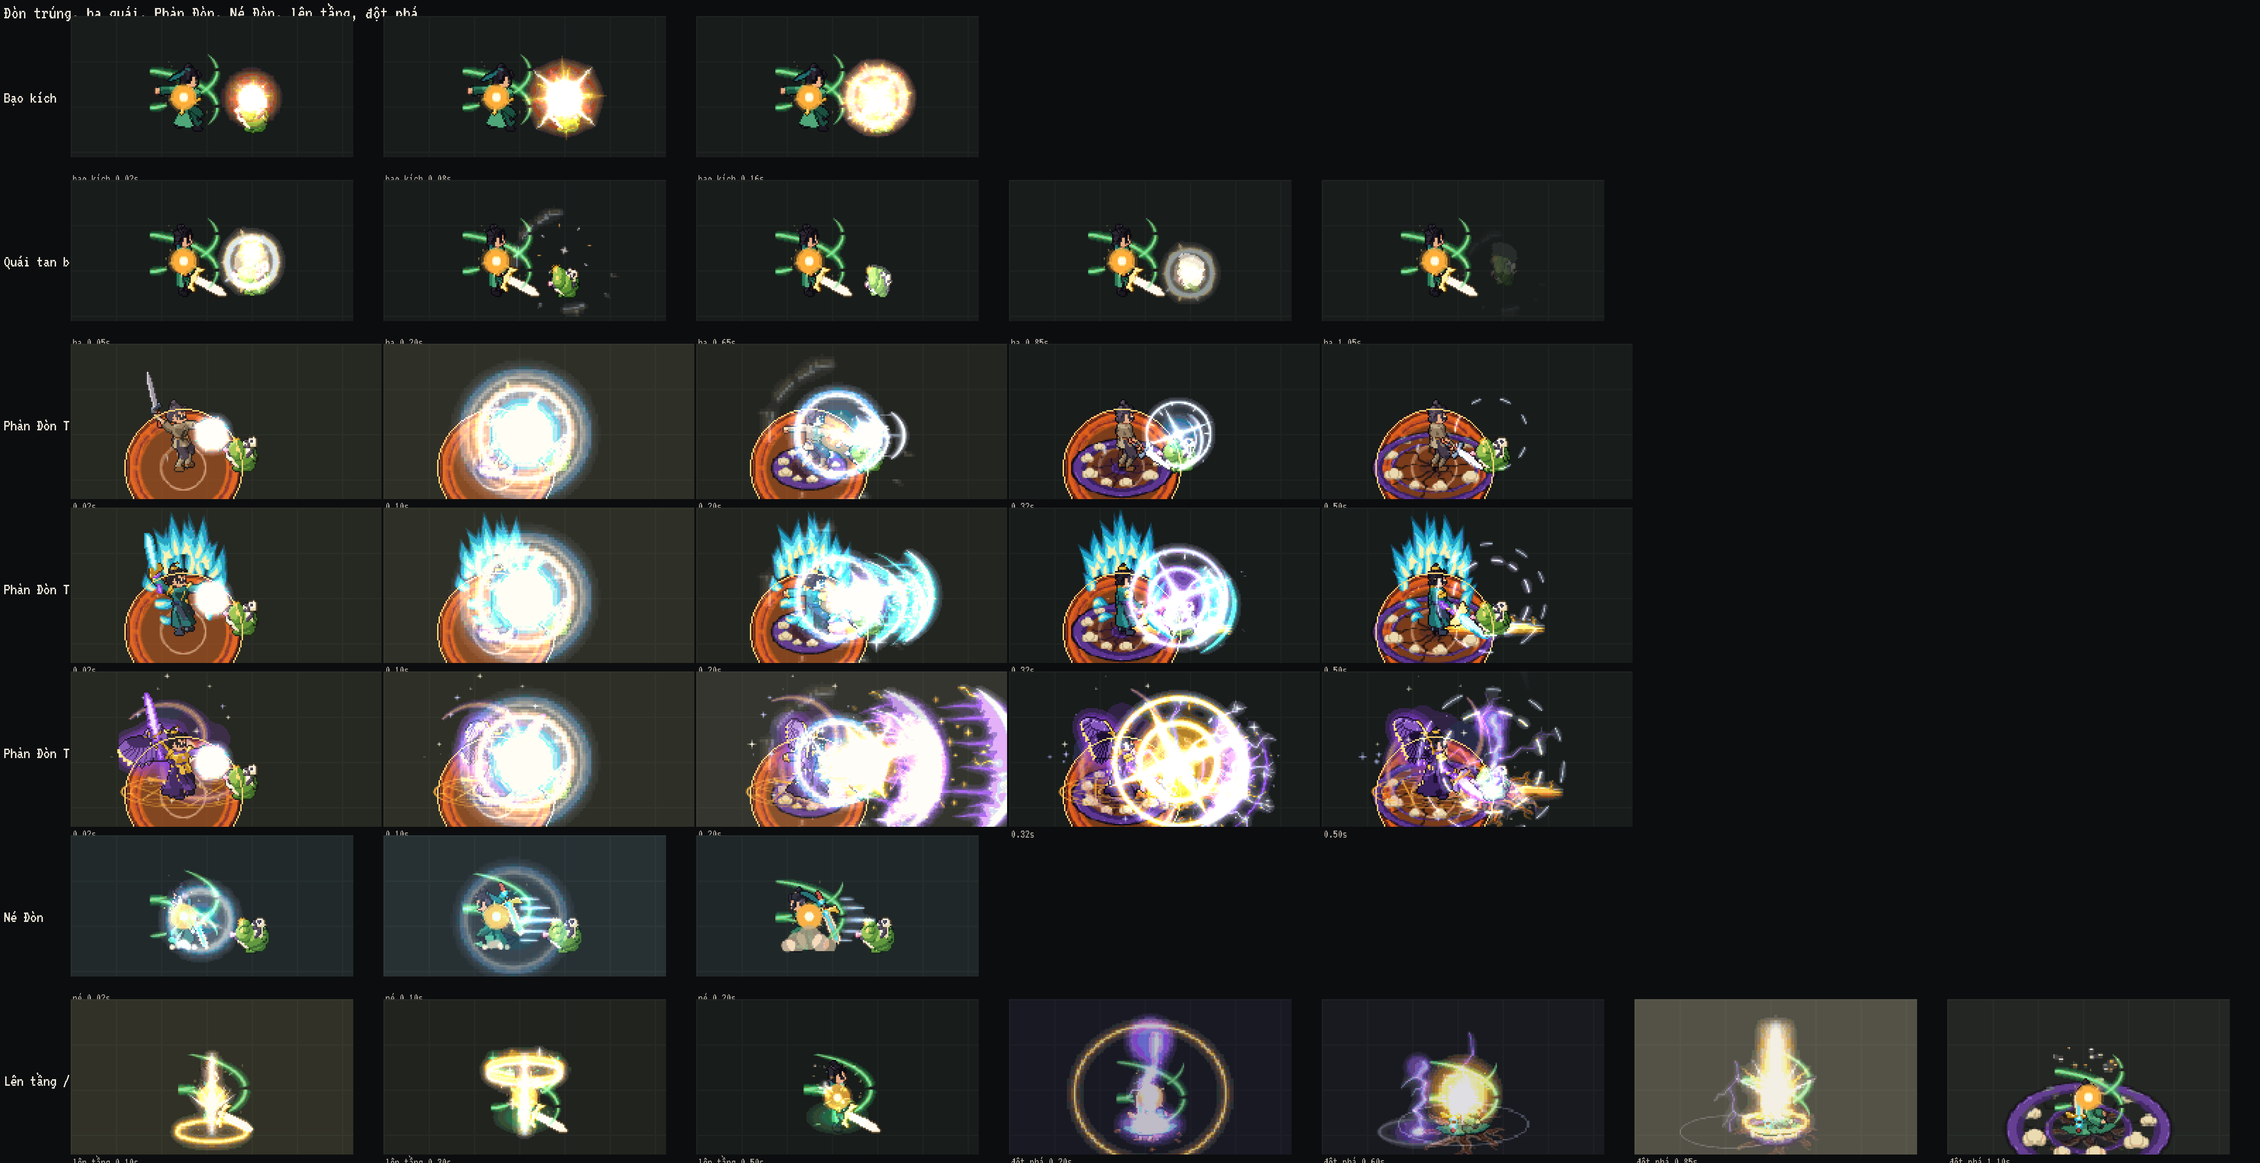
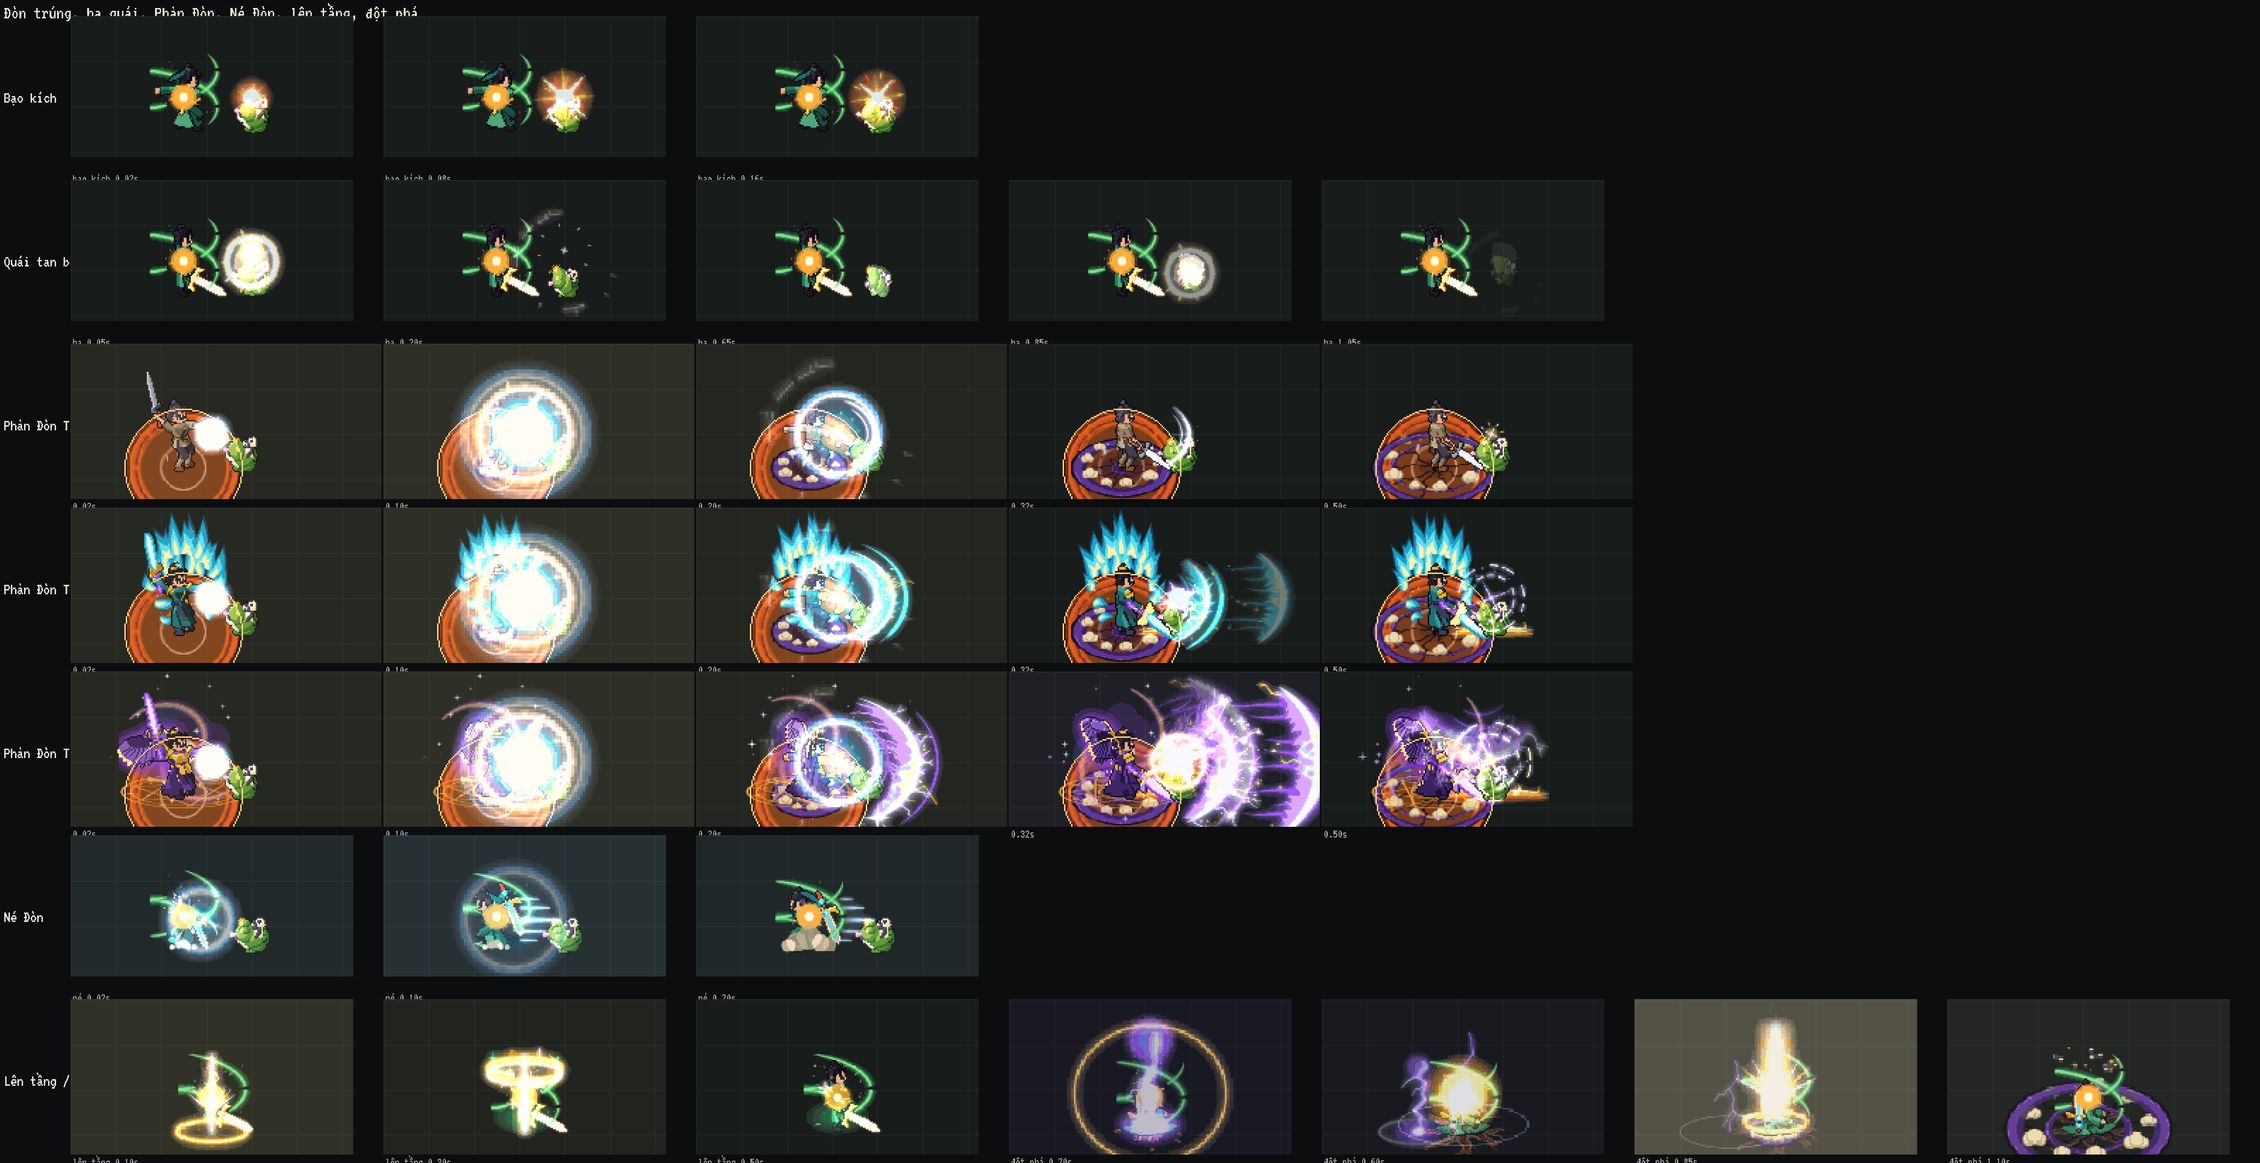
Toán tu tiên: tấm tối dưới kiếm khí trên cỏ, ảnh xem trước đồ rơi và kiếm khí trên cỏ, đo khung hình với đồ rơi

diff --git a/tools/shot_vfx.py b/tools/shot_vfx.py
@@ -9,6 +9,9 @@ writes into art/preview/ (3x nearest-neighbour, dark ground, labels):
     vfx_weapons.png    the five weapon families at the four tier groups, at the moment of the blow
     vfx_chieu.png      each chiêu thức at charge / release / travel / impact, and its miss
     vfx_hits.png       crit, kill and dissolve, Phản Đòn, Né Đòn, stage-up, breakthrough
+    vfx_roi_do.png     gear dropped by a monster: the hop out, lying in the five rarity colours on
+                       grass, the name when near, the pickup; the weapon spots, open and locked
+    vfx_kiem_khi_co.png  the kiếm khí sheet again on grass (bright ground washes additive light out)
 
 Every cell is the world at the game's 2x zoom, cropped to the action; a monster's wind-up ring
 is drawn under the player (with its bright rim over everything, as the game does) so you can
@@ -47,6 +50,7 @@ TIERS = [("pham_nhan", 1, "Phàm Nhân"), ("luyen_khi", 5, "Luyện Khí 5"), ("
          ("hoa_than", 1, "Hóa Thần"), ("luyen_hu", 1, "Luyện Hư"), ("hop_the", 1, "Hợp Thể"),
          ("dai_thua", 1, "Đại Thừa")]
 MONSTER = "dau_tu_oa"
+GRASS = os.environ.get("SHOT_GROUND") == "grass"
 
 
 def text(s: str, size: int = 8, color="#E9E4D8") -> pygame.Surface:
@@ -64,6 +68,9 @@ class Cell:
         self.vfx = Vfx()
         self.vfx.resolve = lambda key: self.src if key == "me" else None
         self.tele = None
+        self.loot = None          # a ground_loot.GroundLoot to draw, at loot_t
+        self.loot_t = 0.0
+        self.spots: list = []     # [draw(surf, view, ground)] weapon spots
 
     def run_to(self, t: float) -> None:
         while self.vfx.t + 1e-6 < t and self.vfx.wall < t + 0.5:
@@ -73,11 +80,21 @@ class Cell:
                 monster: bool = True, mon_clip: str = "idle", mon_t: float = 0.0, extra=None) -> pygame.Surface:
         surf = pygame.Surface((self.w, self.h))
         surf.fill(BG)
-        for x in range(0, self.w, 32):
-            pygame.draw.line(surf, GRID, (x, 0), (x, self.h))
-        for y in range(0, self.h, 32):
-            pygame.draw.line(surf, GRID, (0, y), (self.w, y))
+        ts = art2.tileset32() if GRASS else None
+        if ts is not None:                    # the real grass of the world, as bright as the game's
+            for ty in range(0, self.h, 32):
+                for tx in range(0, self.w, 32):
+                    surf.blit(ts.pick(0, tx // 32, ty // 32), (tx, ty))
+        else:
+            for x in range(0, self.w, 32):
+                pygame.draw.line(surf, GRID, (x, 0), (x, self.h))
+            for y in range(0, self.h, 32):
+                pygame.draw.line(surf, GRID, (0, y), (self.w, y))
         v = self.view
+        if self.loot is not None:
+            self.loot.draw_ground(surf, v, self.loot_t, self.loot_t)
+        for sp in self.spots:
+            sp(surf, v, True)
         if self.tele is not None:
             self.draw_tele(surf, False)
         self.vfx.draw(surf, v, "ground")
@@ -86,6 +103,9 @@ class Cell:
         sx, sy = v.to_screen(*self.src)
         for img, (ox, oy), flags in layers or ():
             bodies.append((self.src[1], img, (sx + ox, sy + oy), flags))
+        if self.loot is not None:
+            for d in self.loot.drawables(v, self.loot_t, *self.src):
+                bodies.append((d[0], d[1], d[2], 0))
         if monster:
             m = art2.monster(MONSTER)
             if m is not None:
@@ -94,6 +114,10 @@ class Cell:
                 bodies.append((self.dst[1], m.frame(n), (int(mx - m.pivot[0]), int(my - m.pivot[1])), 0))
         for _y, img, pos, flags in sorted(bodies, key=lambda b: b[0]):
             surf.blit(img, pos, special_flags=flags)
+        if self.loot is not None:
+            self.loot.draw_over(surf, v, self.loot_t, self.loot_t)
+        for sp in self.spots:
+            sp(surf, v, False)
         if extra is not None:
             extra(surf, v)
         if self.tele is not None:
@@ -288,6 +312,64 @@ def hit_rows() -> list:
     return rows
 
 
+def loot_rows() -> list:
+    """Gear dropped where a monster died: the hop, the five rarities lying on the ground, the name
+    tag when the player is near, the pickup; then the weapon spots of Thiên Địa Đồ."""
+    from client.engine import ground_loot as G
+    from client.engine.text import Fonts as _F  # noqa: F401
+    rows = []
+    items = [("pham", "kiem_1", "#7D7468"), ("linh", "dao_2", "#6A994E"), ("huyen", "thuong_3", "#4A7CC8"),
+             ("dia", "cung_4", "#8E5AC8"), ("thien", "truong_6", "#C99A3A")]
+    cells = []
+    for r, item, col in items:
+        cell = Cell(110, 100, src=(14.0, 44.0), dst=(30.0, 40.0))
+        g = G.GroundLoot()
+        g.add({"item": item, "name_vi": item, "rarity": r, "color": col, "x": 30.0, "y": 40.0}, 0.0, None)
+        g.update(2.0, 900.0, 900.0, None)
+        cell.loot, cell.loot_t = g, 2.0
+
+        def tag(surf, v, r=r, col=col, item=item):
+            sx, sy = v.to_screen(30.0, 40.0)
+            img = FONTS.render(item, 7, col, 1)
+            surf.blit(img, (int(sx - img.get_width() / 2), int(sy - 70)))
+        cells.append((r, cell.picture("kim_dan", "kiem_4", "idle", 0.0, monster=False, extra=tag)))
+    rows.append(("Năm phẩm trên cỏ", cells))
+    cells = []
+    for label, t, px in (("rơi ra", 0.35, 900.0), ("nằm", 1.2, 900.0), ("lại gần", 1.6, 44.0),
+                         ("nhặt", 1.6 + 0.12, 34.0), ("vào túi", 1.6 + 0.26, 34.0)):
+        cell = Cell(150, 100, src=(min(px, 120.0), 44.0), dst=(60.0, 40.0))
+        g = G.GroundLoot()
+        g.add({"item": "kiem_3", "name_vi": "Thanh Phong Kiếm", "rarity": "dia", "color": "#8E5AC8",
+               "x": 60.0, "y": 44.0}, 0.0, None)
+        if label != "rơi ra":
+            g.update(1.0, 900.0, 900.0, None)
+        if label in ("nhặt", "vào túi"):
+            g.update(1.6, 62.0, 44.0, None)
+        cell.loot, cell.loot_t = g, t
+        cells.append((label, cell.picture("kim_dan", "kiem_4", "idle", 0.0, monster=label == "rơi ra",
+                                          mon_clip="die", mon_t=0.5)))
+    rows.append(("Rơi, nằm, nhặt", cells))
+    from client.scenes import world as W
+    cells = []
+    for q, state in (("ha", "available"), ("trung", "available"), ("thuong", "available"), ("cuc", "available"),
+                     ("tuyet", "available"), ("cuc", "locked")):
+        cell = Cell(110, 100, src=(14.0, 44.0))
+        sp = W.WeaponSpot(f"kiem_2_{q}", "x", 2, 2, state, icon=None)
+        ws = W.WorldScene.__new__(W.WorldScene)
+        ws.weapon_spots, ws.t = [sp], 1.0
+        cell.spots = [ws.draw_spot_glow]
+        icon = art2.weapon_icon("kiem_2")
+
+        def ic(surf, v, sp=sp, icon=icon):
+            if icon is not None:
+                sx, sy = v.to_screen(sp.x, sp.y)
+                img = icon if sp.state == "available" else art2.alpha_copy(icon, 120)
+                surf.blit(img, (int(sx - img.get_width() / 2), int(sy - img.get_height() - 2)))
+        cells.append((f"{q} {state}", cell.picture("kim_dan", "kiem_4", "idle", 0.0, monster=False, extra=ic)))
+    rows.append(("Chỗ đặt binh khí", cells))
+    return rows
+
+
 def main() -> int:
     out = Path(sys.argv[1]) if len(sys.argv) > 1 else ROOT / "art" / "preview"
     out.mkdir(parents=True, exist_ok=True)
@@ -298,9 +380,13 @@ def main() -> int:
     for name, rows, title in (("vfx_kiem_khi", kiem_khi_rows, "Kiếm khí theo tu vi (T1-T10), * = đòn chạm"),
                               ("vfx_weapons", weapon_rows, "Các loại binh khí theo nhóm cảnh giới"),
                               ("vfx_chieu", chieu_rows, "Chiêu thức (Kết Đan): tụ lực, xuất chiêu, bay, trúng, dư âm, hụt"),
-                              ("vfx_hits", hit_rows, "Đòn trúng, hạ quái, Phản Đòn, Né Đòn, lên tầng, đột phá")):
+                              ("vfx_hits", hit_rows, "Đòn trúng, hạ quái, Phản Đòn, Né Đòn, lên tầng, đột phá"),
+                              ("vfx_roi_do", loot_rows, "Đồ rơi phát sáng theo phẩm (trên cỏ)"),
+                              ("vfx_kiem_khi_co", kiem_khi_rows, "Kiếm khí trên cỏ (T1-T10)")):
         if only and only != name:
             continue
+        global GRASS
+        GRASS = name in ("vfx_roi_do", "vfx_kiem_khi_co") or os.environ.get("SHOT_GROUND") == "grass"
         img = sheet(rows(), title)
         p = out / f"{name}.png"
         pygame.image.save(img, str(p))

diff --git a/client/engine/vfx.py b/client/engine/vfx.py
@@ -27,7 +27,8 @@ spawn options (all optional): delay (s), life (s; default the sheet's one-shot l
 (world px of hump) for travel, scale (or scale=(a, b) grown over the life), size=(w, h) screen
 px (stretch), angle (screen degrees the art's +x points to: 0 right, 90 down), fade_in /
 fade_out (s), peak (0..1 brightness), fps (speed factor), frames=(a, b) (loop that range), hold
-(one frame), flip (mirror left-right about the pivot: a swing facing left), start (skip the first frames of a one-shot: the ring of a burst without its disc), trail=(n, gap) (afterimages n x `gap` seconds behind), layer, tag, follow, heavy
+(one frame), shade (0..1: a dark plate under an additive sheet, so it keeps its colour on bright
+grass), flip (mirror left-right about the pivot: a swing facing left), start (skip the first frames of a one-shot: the ring of a burst without its disc), trail=(n, gap) (afterimages n x `gap` seconds behind), layer, tag, follow, heavy
 (dropped by "reduce effects" and first to go over the budget).
 
 Coordinates are world pixels; the view (engine/view.py) puts them on screen. Positions, damage,
@@ -115,6 +116,20 @@ def _premul(img: pygame.Surface) -> pygame.Surface:
     return s
 
 
+def _shadow(img: pygame.Surface, alpha: int) -> pygame.Surface:
+    """The drawn area of `img` in black at `alpha` (0..255), cached."""
+    a = max(0, min(255, alpha)) // 8 * 8
+    key = ("shadow", img, a)
+    s = _cache.get(key)
+    if s is None:
+        s = img.copy()
+        s.fill((0, 0, 0, a), special_flags=pygame.BLEND_RGBA_MULT)
+        _cache[key] = s
+        while len(_cache) > _cache_max:
+            _cache.popitem(last=False)
+    return s
+
+
 def _ease(k: float, kind: str) -> float:
     k = max(0.0, min(1.0, k))
     if kind == "out":
@@ -129,7 +144,7 @@ def _ease(k: float, kind: str) -> float:
 class Inst:
     __slots__ = ("fid", "img", "pivot", "flags", "x", "y", "lift", "to", "lift1", "ease", "arc", "t0", "life",
                  "scale", "size", "angle", "fade_in", "fade_out", "peak", "fps", "frames", "hold", "trail",
-                 "layer", "tag", "follow", "heavy", "ox", "oy", "start", "flip")
+                 "layer", "tag", "follow", "heavy", "ox", "oy", "start", "flip", "shade")
 
     def __init__(self):
         self.fid = None
@@ -147,6 +162,7 @@ class Inst:
         self.layer, self.tag, self.follow, self.heavy = "over", None, None, False
         self.ox = self.oy = 0.0           # offset from a followed thing
         self.flip = False                 # mirrored left-right about its pivot (a swing facing left)
+        self.shade = 0.0                  # a dark plate under an additive sheet (bright ground)
 
     # where it is `t` seconds into its life (world px; z = lift)
     def pos(self, t: float, resolve) -> tuple[float, float, float]:
@@ -226,6 +242,7 @@ class Vfx:
         it.hold = kw.get("hold")
         it.start = int(kw.get("start", 0))
         it.flip = bool(kw.get("flip", False))
+        it.shade = float(kw.get("shade", 0.0))
         it.trail = kw.get("trail") if not self.reduced else None
         it.layer = kw.get("layer", "over")
         it.tag = kw.get("tag")
@@ -396,6 +413,8 @@ class Vfx:
             py = out.get_height() / 2 + dx * math.sin(r) + dy * math.cos(r)
         x, y, z = it.pos(tt, self.resolve)
         sx, sy = view.to_screen(x, y - z)
+        if it.shade > 0 and additive:     # on bright grass additive light washes to white: a dark plate first
+            surf.blit(_shadow(out, int(it.shade * level * 16)), (int(sx - px), int(sy - py)))
         surf.blit(out, (int(sx - px), int(sy - py)), special_flags=flags)
         return 1
 

diff --git a/client/engine/combat_vfx.py b/client/engine/combat_vfx.py
@@ -180,6 +180,8 @@ def _feel(v: Vfx, t: int, at: float, el: str, mine: bool) -> None:
 # crescent wave and kiem_no_1; the impact star and ring only from T4; at any moment one bright
 # core on the target, and the sheets' own colours (flame T8, frost T9, cosmic T10) carry the tier.
 TIER_TINT = {8: (255, 140, 60), 9: (140, 200, 255), 10: (170, 120, 255)}
+# how dark a plate goes under a tier's sheets: the colour of high tiers survives bright grass
+SHADE = (0, 0.0, 0.0, 0.15, 0.25, 0.3, 0.35, 0.45, 0.5, 0.55, 0.6)
 HAND = {"right": (6.5, 12.0), "left": (-6.5, 12.0), "up": (3.0, 15.0), "down": (-3.0, 9.0)}
 IMPACT_SCALE = {2: 0.72, 3: 0.62, 4: 0.55}   # kiem_no_g: a ring about the monster's width, its body still reads
 
@@ -204,7 +206,8 @@ def _real_impact(v: Vfx, t: int, x: float, y: float, lift: float, delay: float) 
         v.spawn("hit_spark", x, y, delay, lift=lift, scale=0.42 if t == 1 else 0.55, peak=0.6 if t == 1 else 0.8)
         return
     fid = "kiem_no_1" if t == 3 else f"kiem_no_{group(t)}"
-    if not v.spawn(fid, x, y, delay, lift=lift, scale=0.6 if t == 3 else IMPACT_SCALE[group(t)], peak=0.85):
+    if not v.spawn(fid, x, y, delay, lift=lift, scale=0.6 if t == 3 else IMPACT_SCALE[group(t)], peak=0.85,
+                   shade=SHADE[t] * 0.7):
         v.spawn("hit_spark", x, y, delay, lift=lift, scale=0.7)
 
 
@@ -228,7 +231,8 @@ def _blade_real(v, t, src, dst, strike, dst_lift, follow, mine, z, garnish) -> f
     face = _face(ux, uy)
     ang, flip = _pose(face)
     hx, hy = HAND[face]
-    v.spawn(f"kiem_khi_{t}", src[0] + hx, src[1], strike, lift=hy, angle=ang, flip=flip, follow=follow)
+    v.spawn(f"kiem_khi_{t}", src[0] + hx, src[1], strike, lift=hy, angle=ang, flip=flip, follow=follow,
+            shade=SHADE[t])
     land = strike + 0.05
     if t >= 2 and has(f"kiem_song_{t}"):
         launch = strike + 0.1
@@ -244,7 +248,8 @@ def _blade_real(v, t, src, dst, strike, dst_lift, follow, mine, z, garnish) -> f
             ex, ey = sx + wx * (span + over), sy + wy * (span + over)
             v.spawn(f"kiem_song_{t}", sx, sy, launch + i * 0.05, life=travel, to=(ex, ey), lift=hy,
                     lift1=dst_lift, angle=deg + off, scale=0.7 if t == 2 else 1.0, peak=1.0 if i == 0 else 0.45,
-                    fade_in=0.03, fade_out=min(0.1, travel * 0.4) if over else 0.04, heavy=i > 0)
+                    fade_in=0.03, fade_out=min(0.1, travel * 0.4) if over else 0.04, heavy=i > 0,
+                    shade=SHADE[t] if i == 0 else 0.0)
     _real_impact(v, t, dst[0], dst[1], dst_lift, land)
     _real_scar(v, t, dst[0], dst[1], land)
     _real_feel(v, t, land, mine)

diff --git a/client/tests/test_combat_flow.py b/client/tests/test_combat_flow.py
@@ -114,7 +114,8 @@ def beat(drv: Driver, ws, m, server: ServerProcess | None = None) -> None:
 
 
 def run_combat_flow(workdir: Path, shots: Path | None = None) -> None:
-    server = ServerProcess(workdir)
+    # every drop roll succeeds (a dev server only): the kill below surely leaves gear on the ground
+    server = ServerProcess(workdir, env={"DEV_DROP_MULT": "1000"})
     try:
         url = server.url
         token, uid = make_account(url, "detu_c", "Chiến Sĩ")     # no word learned: none is needed
@@ -158,6 +159,28 @@ def run_combat_flow(workdir: Path, shots: Path | None = None) -> None:
         drv.wait(lambda: any("Linh Thạch" in t or "Nhận" in t for t in drv.toast_log) or
                  any(f.text.startswith("+") for f in ws.fx.texts), 6, "loot")
         drv.shot("loot")
+
+        # the gear of that kill lies where the monster fell, glowing in its rarity colour; it is
+        # already in the bag, but its toast waits until the player walks to it - and shows once
+        from client.engine import art2
+        if art2.on():
+            drv.wait(lambda: any(d.state == "lie" for d in ws.ground_loot.drops), 6, "gear on the ground")
+            d = next(x for x in ws.ground_loot.drops if x.state == "lie")
+            said = d.toast[0]
+            assert said not in drv.toast_log, "the toast waits for the pickup"
+            drv.step(6)
+            drv.shot("loot_on_the_ground")
+            for _ in range(4):                      # a bystander's blow may open a card on the way
+                while drv.top_is(CARD):
+                    answer_math(drv, server, correct=True)
+                    drv.wait(lambda: not drv.top_is(CARD), 6, "the card closes")
+                walk_to(drv, d.x, d.y, near=4)
+                drv.step(int(1 + 0.4 * 60))
+                if said in drv.toast_log:
+                    break
+            drv.wait(lambda: said in drv.toast_log, 6, "the pickup toast")
+            drv.step(20)
+            assert drv.toast_log.count(said) == 1 and d not in ws.ground_loot.drops
 
         # a wrong answer: the blow lands in full, red flash, and the solution on the card
         rest_until = time.time() + res["combat"]["rest"] + 0.5     # past the rest window of the last answer

diff --git a/tools/shot_v2.py b/tools/shot_v2.py
@@ -434,6 +434,19 @@ def perf(drv: Driver, ws) -> None:
         print(f"draw_world {label}: {ms:.2f} ms/frame (up to {live} live instances)")
     ws.vfx.clear()
     ws.vfx.reduced = False
+    # a dozen pieces of gear lying round the player, every rarity, rings, icons and columns
+    rar = ("pham", "linh", "huyen", "dia", "thien")
+    for i in range(12):
+        ws.ground_loot.add({"item": f"kiem_{1 + i % 8}", "name_vi": "x", "rarity": rar[i % 5], "color": "#FFFFFF",
+                            "x": p.x - 60 + (i % 6) * 24, "y": p.y + (-30 if i < 6 else 30)}, drv.game.now - 2, None)
+    ws.ground_loot.update(drv.game.now, -999, -999, None)
+    ws.draw_world(surf)
+    t0 = time.perf_counter()
+    for _ in range(200):
+        ws.draw_world(surf)
+    ms = (time.perf_counter() - t0) / 200 * 1000
+    print(f"draw_world with 12 drops on the ground: {ms:.2f} ms/frame")
+    ws.ground_loot.drops.clear()
     for label, on in (("v2", True), ("old", False)):
         real = art2.on
         if not on:
